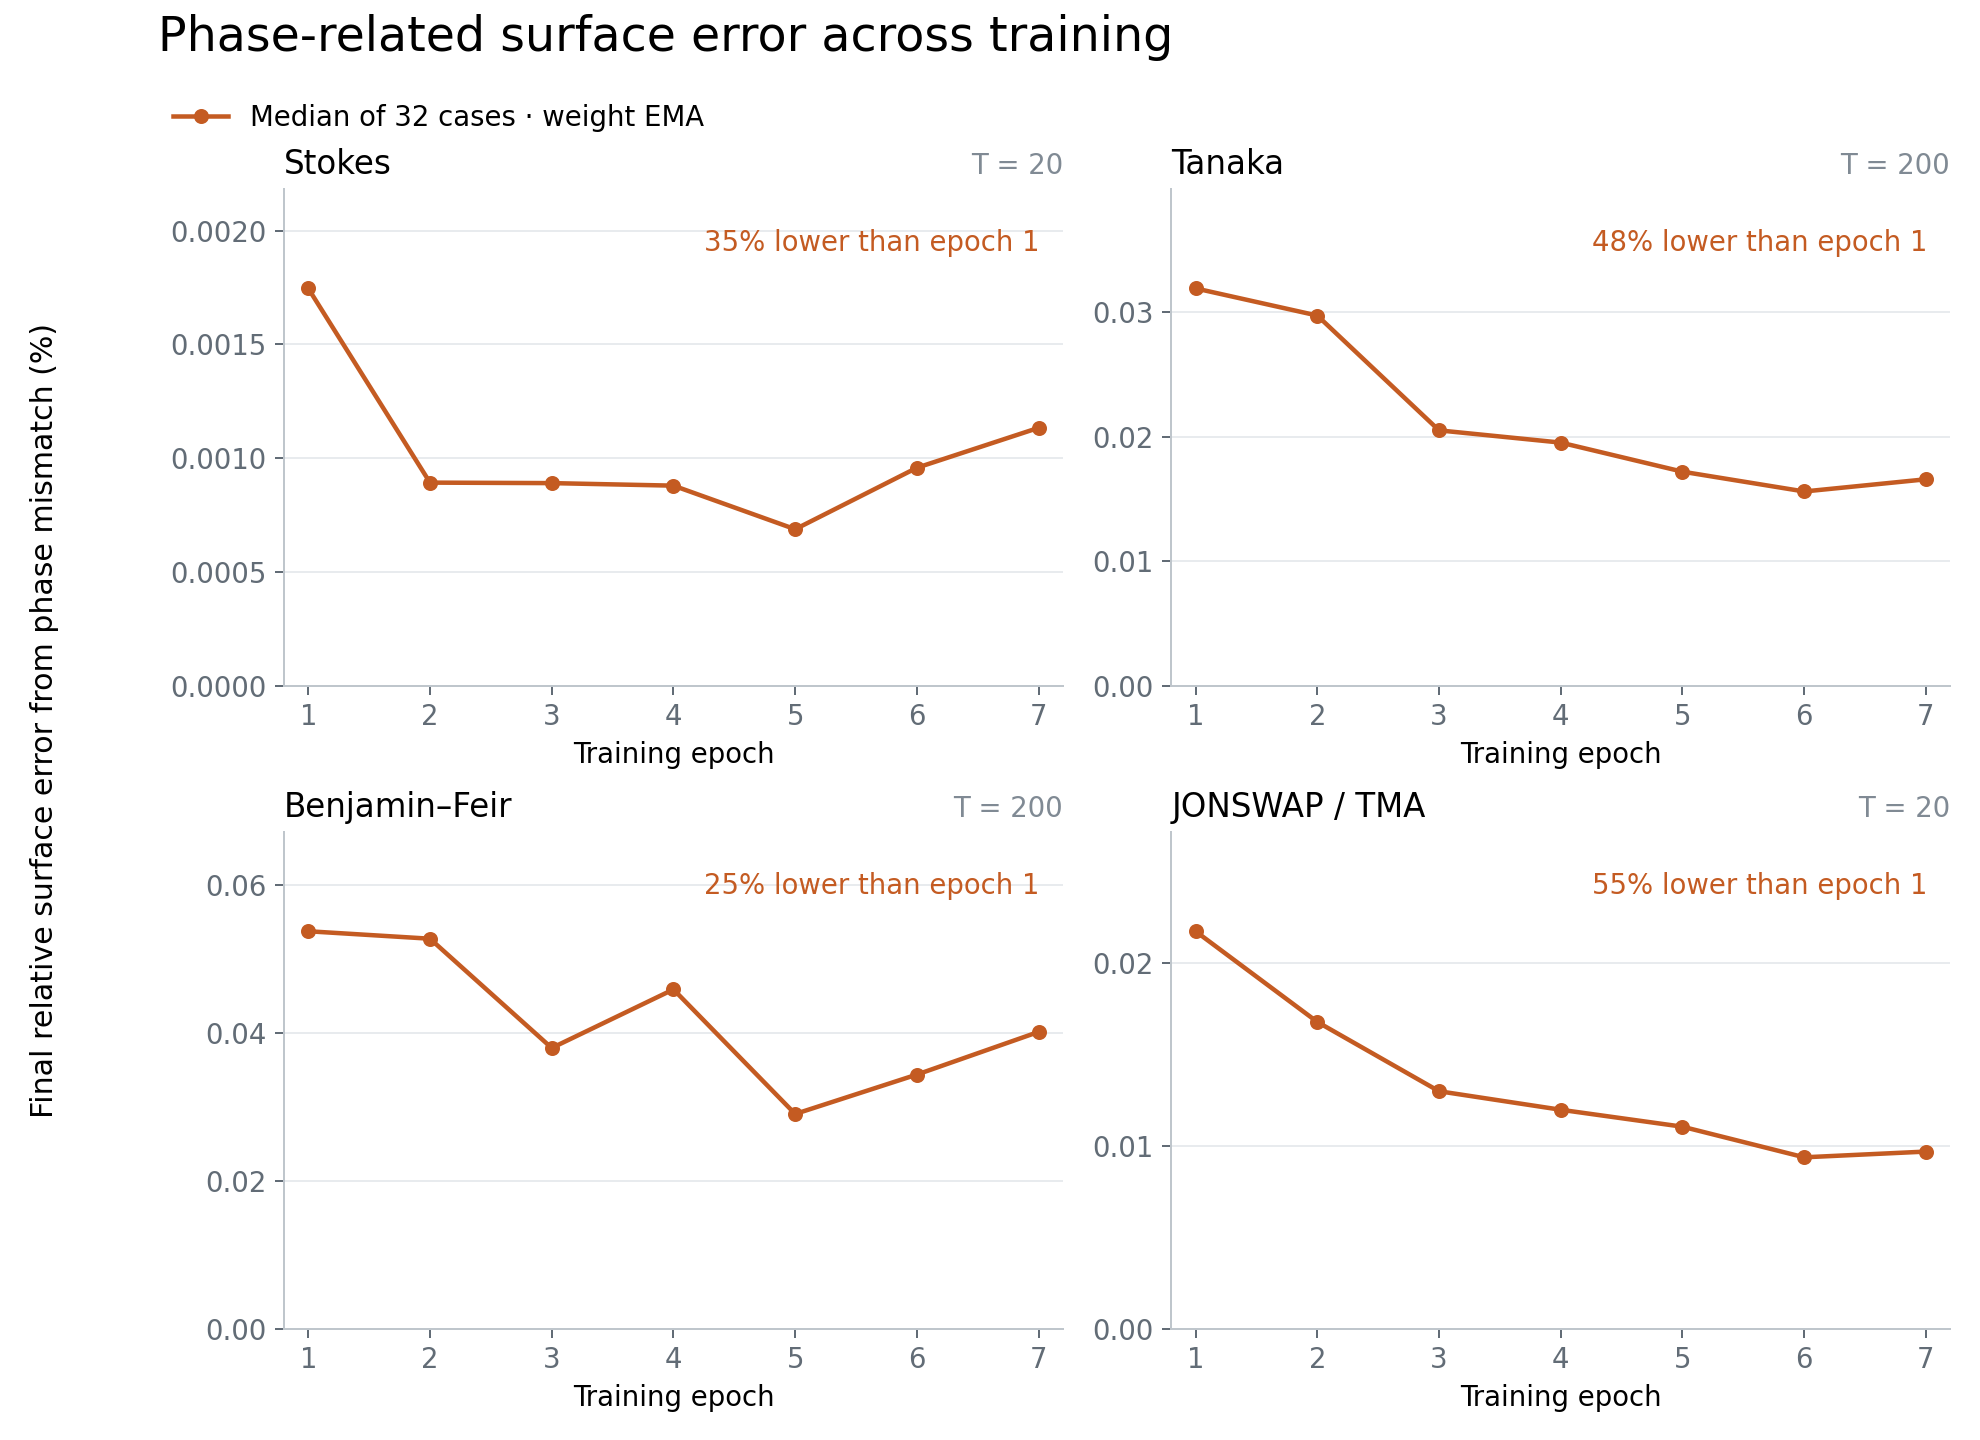
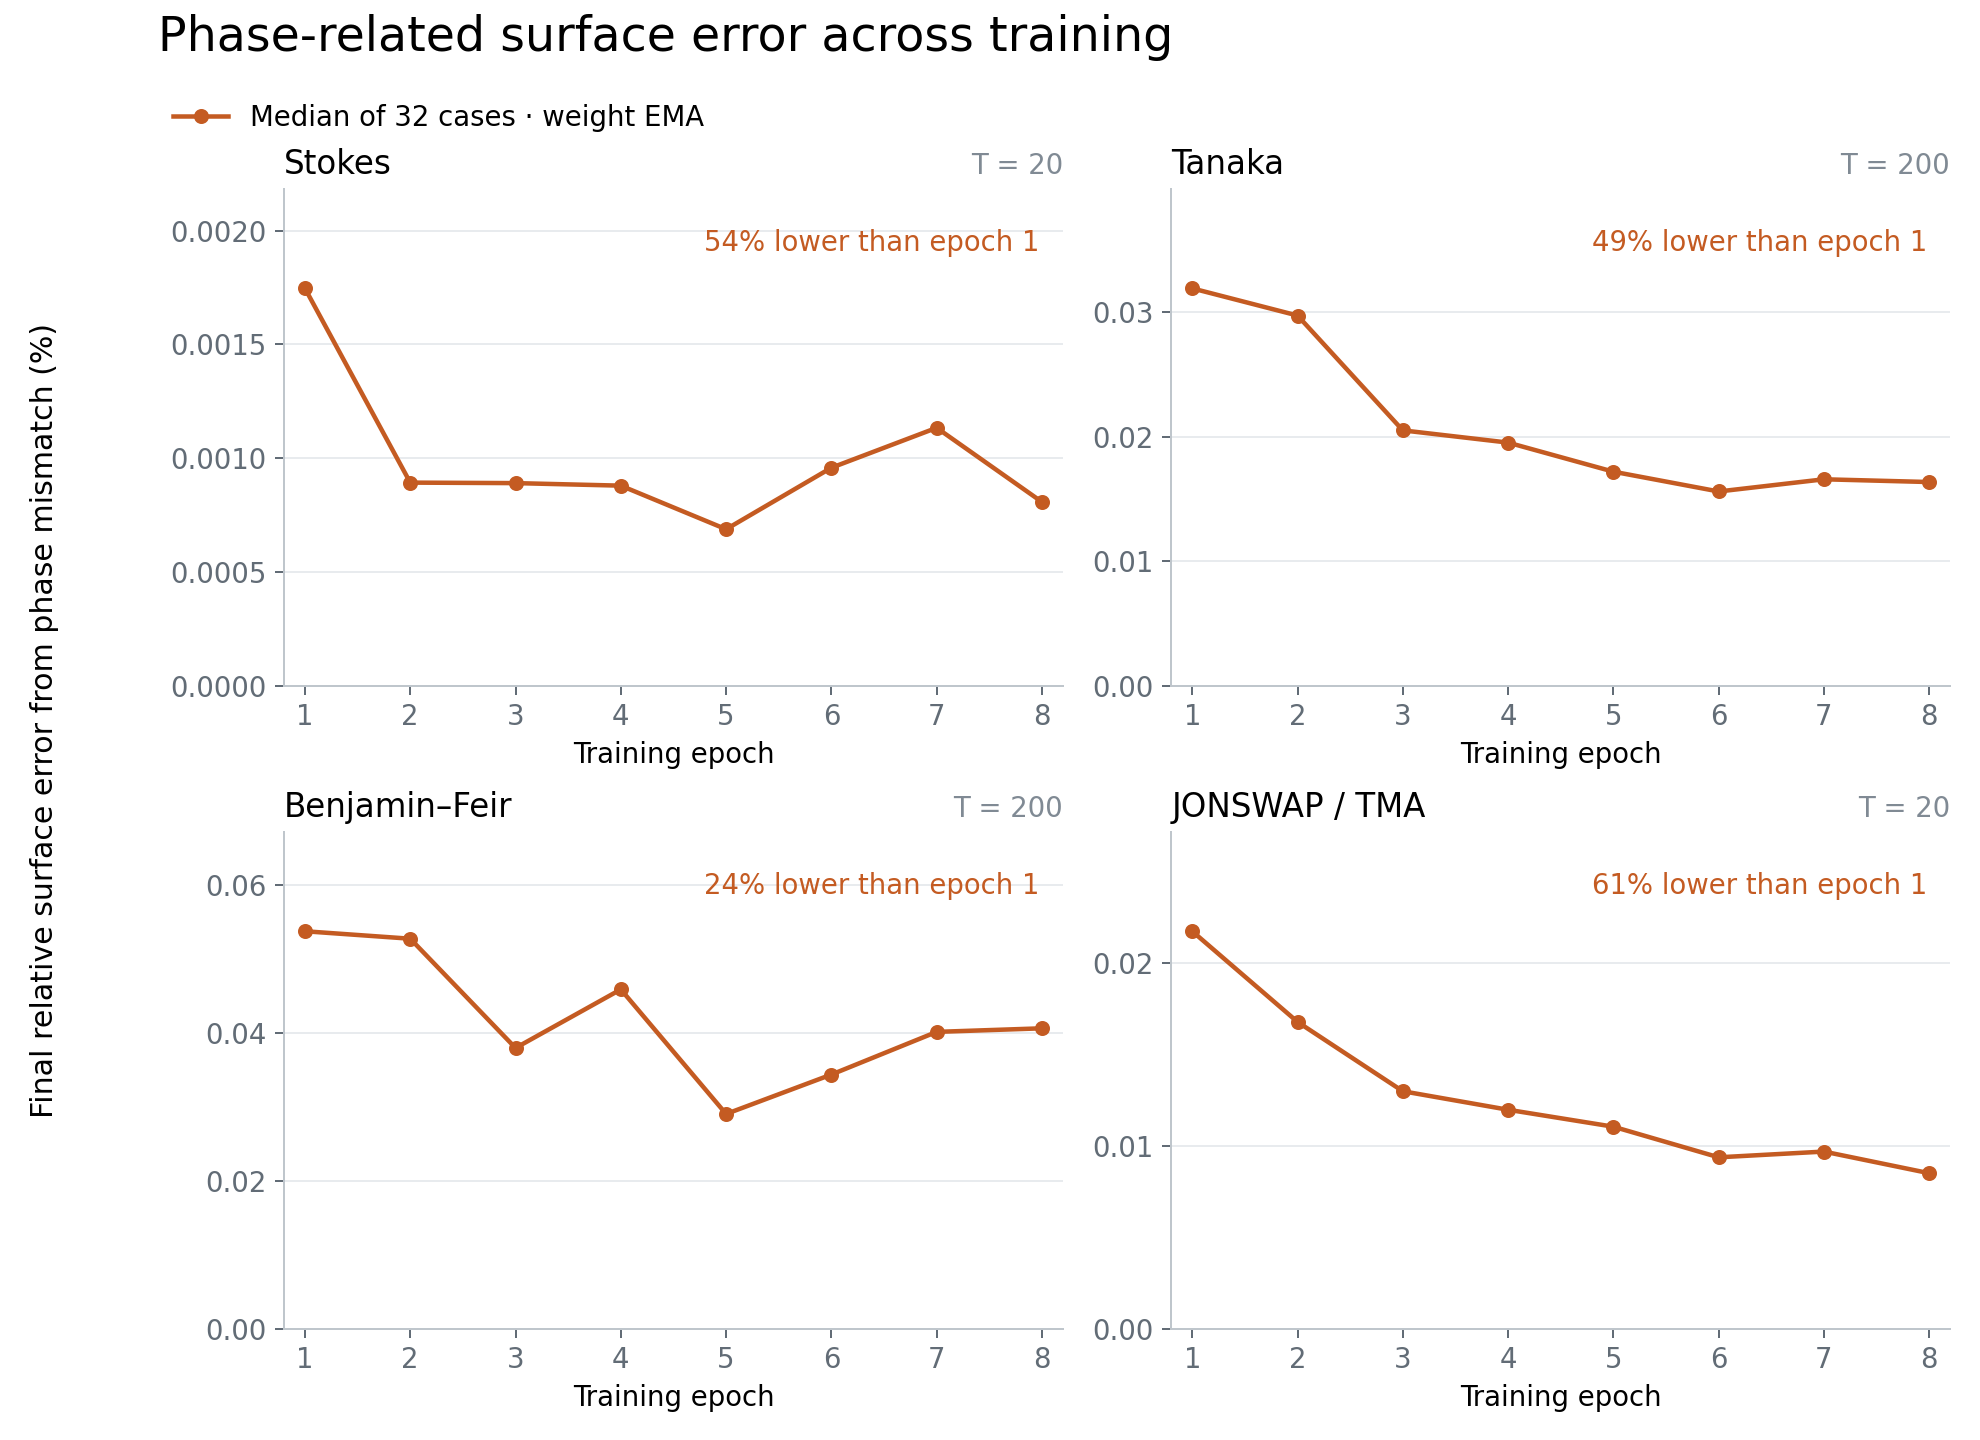
Record epoch 8 rollouts and refresh phase-training figure

diff --git a/paper-plots/plot_phase_diagnostics.py b/paper-plots/plot_phase_diagnostics.py
@@ -66,7 +66,7 @@ def main() -> None:
     parser = argparse.ArgumentParser(description=__doc__)
     parser.add_argument("--hero", action="store_true", help="Plot saved hero-run epochs 1, 6 and 7 only.")
     parser.add_argument("--phase-example", action="store_true", help="Show actual phase drift in a representative epoch-7 Stokes wave.")
-    parser.add_argument("--phase-training", action="store_true", help="Plot terminal phase error across saved EMA epochs 1–7.")
+    parser.add_argument("--phase-training", action="store_true", help="Plot terminal phase error across saved EMA training epochs.")
     args = parser.parse_args()
     plt.rcParams.update({
         "font.family": "DejaVu Sans", "font.size": 11,
@@ -75,11 +75,11 @@ def main() -> None:
         "pdf.fonttype": 42, "ps.fonttype": 42,
     })
     if args.phase_training:
-        epochs = np.arange(1, 8)
+        epochs = np.arange(1, 9)
         evaluations = [
             ROOT / "outputs/c27_phase1_lr8_momentum_half_ema995_grad05_adam05_b2099_batch16_hd04_band128_nested1_gamma32_full_20261012/eval_fast_weight_ema_nestedfused_contextbatch",
             *(ROOT / f"outputs/c27_nested_b16_ema_low_lr_continue_20261014/eval_epoch{epoch}_weight_ema" for epoch in (2, 3)),
-            *(ROOT / f"outputs/c27_nested_b16_ema_low_lr_ep60_20261014/eval_epoch{epoch}_weight_ema" for epoch in range(4, 8)),
+            *(ROOT / f"outputs/c27_nested_b16_ema_low_lr_ep60_20261014/eval_epoch{epoch}_weight_ema" for epoch in epochs[3:]),
         ]
         fig, axes = plt.subplots(2, 2, figsize=(11, 8))
         for family, title, ax in zip(FAMILIES, TITLES, axes.flat, strict=True):
@@ -103,7 +103,7 @@ def main() -> None:
                     markersize=5, label="Median of 32 cases · weight EMA")
             ax.set_title(title, loc="left")
             ax.set_title(f"T = {final_time:g}", loc="right", fontsize=11, color="#808a94")
-            ax.set(xlabel="Training epoch", xticks=epochs, xlim=(0.8, 7.2), ylim=(0, 1.25 * max(medians)))
+            ax.set(xlabel="Training epoch", xticks=epochs, xlim=(0.8, epochs[-1] + 0.2), ylim=(0, 1.25 * max(medians)))
             ax.ticklabel_format(axis="y", style="plain", useOffset=False)
             ax.locator_params(axis="y", nbins=5)
             reduction = 100 * (1 - medians[-1] / medians[0])

diff --git a/experiments/experiments-2026-10-15.md b/experiments/experiments-2026-10-15.md
@@ -16,3 +16,4 @@ Epoch 7 of the approved low-LR continuation completed; epoch 8 resumed automatic
 | 2026-10-15 | 02:54 | Figure21: actual phase-drift example | User requested visible wave displacement rather than only aggregate phase-error norms, then requested exactly three panels. | Added --phase-example to existing plotter. Saved epoch7 EMA Stokes ID1901833 is nearest the median terminal phase-error magnitude. Three panels show actual profiles, Fourier-interpolated zero-crossing zoom, and pointwise error before/after global translation alignment. Global shift7.09653e-7 and local crossing offset7.21735e-7 spatial units; raw/aligned relative surface errors .00106618/.000047217%, removing99.8039% squared error. Removed the preliminary fourth Fourier-angle panel as requested. | Actual saved1024-point fields, no exaggerated displacement or new solver execution. Independent selection/alignment/root checks agree. Carrier phase sign also agrees with negative k times fitted shift within .048%; all saved phase samples finite, no wrapping. PNG visually inspected, Python compilation and diff check pass. | CPU plotting/review 02:43–02:54; no GPU or training changes. | MERGE the three-panel visualization and README. |
 | 2026-10-15 | 03:07 | `plot_phase_diagnostics.py --phase-training`; Figure22 | User requested a figure showing how phase-related surface error changes as training proceeds. | Plotted median terminal Fourier-phase relative error for all seven saved primary weight-EMA checkpoints, with 32 cases per family and linear zero-based axes. Epoch7 vs1 reductions S/T/BF/J: 35.074/48.021/25.312/55.420%. All measurements shown without smoothing: all four medians rise from epoch6 to7; Stokes and BF reach their lowest median at epoch5, Tanaka and JON at epoch6. Magnitudes use the same Parseval phase/amplitude split as Figure20, not a fraction of total prediction error. | Independent CPU recomputation agrees; case IDs and terminal reference fields identical across all epochs, all phase errors finite. PNG visually inspected; Python compilation and diff check passed. Existing figures unchanged. | CPU rendering/review 03:06–03:07; no training, model evaluation or GPU work. | MERGE Figure22 and documentation. Training has reduced phase error relative to epoch1, but the improvement is not monotonic. |
 | 2026-10-15 | 03:15 | Saved EMA epochs1/5/6/7: paired-case bootstrap | Check whether recent median increases indicate broad regression before altering the approved continuation. | CPU-only paired log-error ratios, 10000 bootstrap draws, seed0, resampling32 cases within each family. Pooled terminal eta E7/E6=1.03156, 95% interval [.91821,1.16093], 64/128 wins; E7/E5=1.01783 [.88529,1.17138],70 wins; E7/E1=.64505 [.54838,.75982],98 wins. JON improves vs E6 on26/32 cases, ratio .93165 [.89966,.96360]; BF worsens on21/32, ratio1.1827 [.9654,1.4356]. Pooled phase-magnitude E7/E6=1.04590 [.91311,1.19267],62 wins; E7/E1=.69709 [.57589,.83844],95 wins. Stokes phase E7/E1=1.06461 [.59231,1.93869],17/32 wins despite its35% lower family median. JON phase E7/E6=.93362 [.89340,.97064],24/32 wins despite a higher family median. | Saved case IDs, times, depths and validity flags agree; all error ratios finite and positive. These intervals describe resampling the selected cases, not training-seed variability or an independent population test. Phase and total-error analyses independently computed; no new rollouts or model execution. | CPU analysis 03:13–03:15; live session95505 remains active on epoch8. | KEEP the approved run unchanged. E7 remains clearly improved over E1 in pooled selected-case error, but E5/E6/E7 ordering is uncertain; median curves alone do not establish broad Stokes phase improvement or broad JON regression. |
+| 2026-10-15 | 03:57 | `c27_nested_b16_ema_low_lr_ep60_20261014`: epoch8 primary EMA; Figure22 refresh | Continue testing whether LR8e-6 training transfers the winning first-epoch accuracy to a sustained run, without reacting to one noisy checkpoint. | EMA selection score1.719296100e-5 improves2.50% over7; retained data1.514984491e-5. Terminal eta medians percent S/T/BF/J: .000898436/.020920970/.047615859/.010900792; p95 .006599079/.153824059/.126473390/.088162726. Paired pooled eta ratios: .632307 vs1 (101/128wins), .997718 vs5 (74), 1.011179 vs6 (74), .980243 vs7 (72), .295568 vsM2 (92), 1.245512 vsM3 (63). Versus7 family ratios .790314/1.204460/1.005183/.964933: Stokes and JON improve, Tanaka worsens, BF nearly unchanged. Phase-magnitude medians percent .000807817/.016359640/.040646508/.008497470; Figure22 now includes8, showing Stokes/JON recovery. Stokes phase paired8/7=.743157 (17/32wins); translation alignment removes97.331% of remaining squared error. | All128 cases finite/reference-valid; minimum depth .011970300942; independent terminal eta/xi recomputation agrees within2.52e-13. Latest, best and EMA exports all8; model/gradientEMA/Adam/schedule counts5898360=8*737295. Best validation epoch8, patience0/5. Figure visually inspected; compile/diff checks pass. | Training02:10; export03:50; all rollouts complete and epoch9 resumed by03:54. CPU analysis/figure refresh03:54–03:57. | KEEP the approved continuation; epoch6 remains aggregate rollout best. E8 preserves most of its gain and improves Stokes phase, but the family tradeoff and failure to beat M3 overall remain unresolved. No new training arm, cloud work or timing changes. |

diff --git a/paper-plots/README.md b/paper-plots/README.md
@@ -757,12 +757,13 @@ OPENBLAS_NUM_THREADS=1 OMP_NUM_THREADS=1 UV_CACHE_DIR=/tmp/dno-uv-cache \
 [PNG](figures/22-phase-error-vs-training.png) / [PDF](figures/22-phase-error-vs-training.pdf)
 
 Terminal Fourier-phase error for primary weight-EMA checkpoints at every epoch
-from 1 through 7, using the same 32 cases per family. The y axis uses Figure 20's
+from 1 through 8, using the same 32 cases per family. The y axis uses Figure 20's
 relative-error magnitude, not the percentage of total squared error. Each point
 is the median of `100*sqrt(phase_energy/reference_energy)` at the final rollout
-time. The plotted epoch-7 reductions versus epoch 1 are 35.1%, 48.0%, 25.3% and
-55.4% for Stokes, Tanaka, Benjamin–Feir and JONSWAP/TMA. All seven measurements
-are shown, including the increase from epoch 6 to 7 in each family.
+time. The plotted epoch-8 reductions versus epoch 1 are 53.7%, 48.7%, 24.4% and
+60.9% for Stokes, Tanaka, Benjamin–Feir and JONSWAP/TMA. All eight measurements
+are shown: the increase from epoch 6 to 7 is followed by a recovery in Stokes
+and JONSWAP, a small decrease in Tanaka, and a small increase in Benjamin–Feir.
 
 ```sh
 OPENBLAS_NUM_THREADS=1 OMP_NUM_THREADS=1 UV_CACHE_DIR=/tmp/dno-uv-cache \

diff --git a/EXPERIMENTS.md b/EXPERIMENTS.md
@@ -33,11 +33,11 @@ could not be recovered at all are in
 
 ## Dated logs
 
-97 files, 1590 rows.
+97 files, 1591 rows.
 
 | Date | Rows | File | Size |
 | --- | --- | --- | --- |
-| 2026-10-15 | 12 | [`experiments/experiments-2026-10-15.md`](experiments/experiments-2026-10-15.md) | 17 KB |
+| 2026-10-15 | 13 | [`experiments/experiments-2026-10-15.md`](experiments/experiments-2026-10-15.md) | 18 KB |
 | 2026-10-14 | 16 | [`experiments/experiments-2026-10-14.md`](experiments/experiments-2026-10-14.md) | 38 KB |
 | 2026-10-13 | 8 | [`experiments/experiments-2026-10-13.md`](experiments/experiments-2026-10-13.md) | 14 KB |
 | 2026-10-12 | 57 | [`experiments/experiments-2026-10-12.md`](experiments/experiments-2026-10-12.md) | 125 KB |
